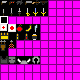
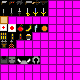
Updates to Item Images
Inventory Images will now be higher resolution/higher quality, added
some shading to a few images, matched them with their respective pickup
items, Also I added in an orange item because originally it was just
the apple colored a different color and I’m not tryna be lazy like that
anymore.

diff --git a/src/javajesus/items/Item.java b/src/javajesus/items/Item.java
@@ -49,7 +49,7 @@ public class Item implements Serializable {
 			"This red fruit will restore a little health.", 10);
 	public static final Item banana = new Item("Banana", 1, 3, 3, new int[] { 0xFF111111, 0xFFFFF600, 0xFF000000 },
 			"The currency of the wild apes. Restores a little health.", 10);
-	public static final Item orange = new Item("Orange", 2, 2, 3, new int[] { 0xFF111111, 0xFFFFAE00, 0xFF0CA101 },
+	public static final Item orange = new Item("Orange", 2, 5, 3, new int[] { 0xFF111111, 0xFFFFAE00, 0xFF0CA101 },
 			"The orange fruit will restore a little health.", 10);
 	public static final Item feather = new Item("Feather", 3, 4, 3, new int[] { 0xFF111111, 0xFF79B2FF, 0xFF000000 },
 			"So light. Does Nothing.", 0);
@@ -110,11 +110,11 @@ public class Item implements Serializable {
 	// ammo
 	public static final Item assaultRifleAmmo = new Item("Ammo", 22, 0, 4,
 			new int[] { 0xFF111111, 0xFFFF0000, 0xFF0CA101 }, "Assault Rifle Ammo", 0);
-	public static final Item revolverAmmo = new Item("Ammo", 23, 2, 4, new int[] { 0xFF111111, 0xFFFF0000, 0xFF0CA101 },
+	public static final Item revolverAmmo = new Item("Ammo", 23, 1, 4, new int[] { 0xFF111111, 0xFFFF0000, 0xFF0CA101 },
 			"Revolver Ammo", 0);
-	public static final Item shotgunAmmo = new Item("Ammo", 24, 3, 4, new int[] { 0xFF111111, 0xFFFF0000, 0xFF0CA101 },
+	public static final Item shotgunAmmo = new Item("Ammo", 24, 2, 4, new int[] { 0xFF111111, 0xFFFF0000, 0xFF0CA101 },
 			"Shotgun Ammo", 0);
-	public static final Item laserAmmo = new Item("Ammo", 25, 4, 4, new int[] { 0xFF111111, 0xFFFF0000, 0xFF0CA101 },
+	public static final Item laserAmmo = new Item("Ammo", 25, 3, 4, new int[] { 0xFF111111, 0xFFFF0000, 0xFF0CA101 },
 			"Laser Ammo", 0);
 	public static final Item arrowAmmo = new Item("Ammo", 26, 1, 5, new int[] { 0xFF111111, 0xFFFF0000, 0xFF0CA101 },
 			"Arrow Ammo", 0);
